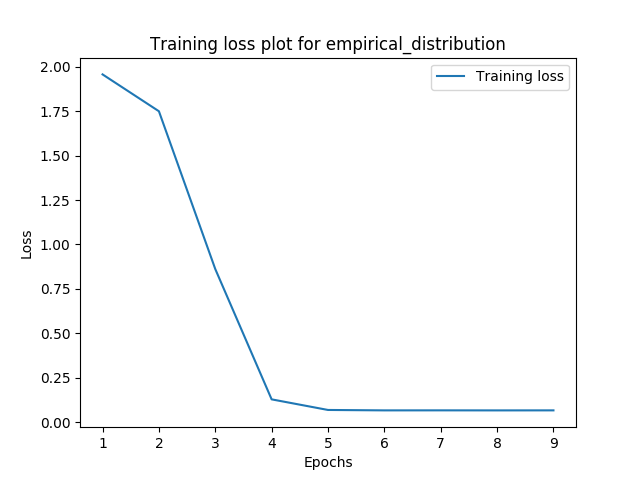
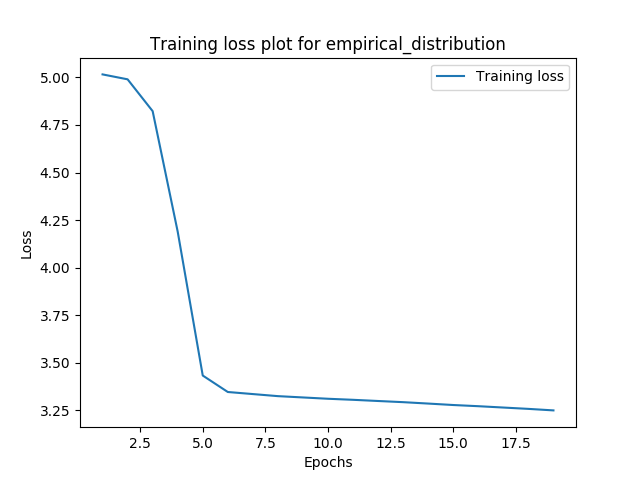
two stage figures

diff --git a/pathProbabilities.py b/pathProbabilities.py
@@ -325,7 +325,7 @@ if __name__=='__main__':
     plot_everything=True
     learning_mode = 1
     learning_model_type = 'random_walk_distribution' if learning_mode == 0 else 'empirical_distribution'
-    training_mode = 1
+    training_mode = 0
     training_method = 'two-stage' if training_mode == 0 else 'decision-focused' # 'two-stage' or 'decision-focused'
     feature_size=5
     OMEGA=4
